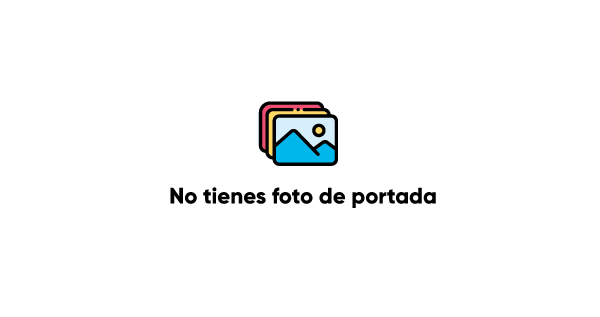
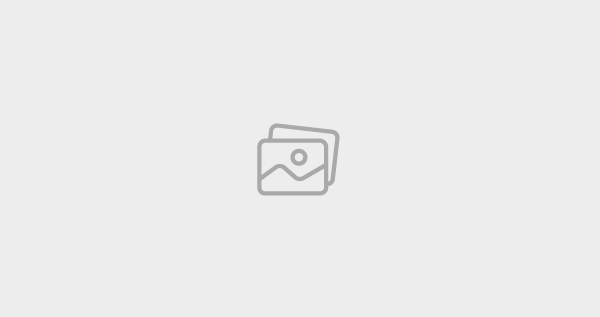
mejorando las imagenes por defecto del formulario de negocio

Changed region(s): [[0.27, 0.3123, 0.75, 0.653]]

diff --git a/lib/src/ui/negocio/user_card_negocio.dart b/lib/src/ui/negocio/user_card_negocio.dart
@@ -13,86 +13,91 @@ class UserCardNegocio extends StatelessWidget {
 
   @override
   Widget build(BuildContext context) {
-    return Padding(
-      padding: const EdgeInsets.all(10),
-      child: Container(
-        width: double.infinity,
-        height: 70,
-        decoration: BoxDecoration(
-          color: Colors.white,
-          borderRadius: BorderRadius.only(
-              topLeft: Radius.circular(5), bottomLeft: Radius.circular(5)),
-          boxShadow: [
-            BoxShadow(
-              color: Colors.grey.withOpacity(0.3),
-              spreadRadius: 1,
-              blurRadius: 7,
-              // offset: Offset(3, 3), // changes position of shadow
-            ),
-          ],
-        ),
-        child: Row(
-          mainAxisAlignment: MainAxisAlignment.spaceBetween,
-          children: [
-            Container(
-              width: 70,
-              height: 70,
+    return Column(
+      children: [
+        Padding(
+          padding: const EdgeInsets.symmetric(horizontal: 10,vertical: 0.5),
+          child: Container(
+            width: double.infinity,
+            height: 70,
+            decoration: BoxDecoration(
               color: Colors.white,
-              child: ClipRRect(
-                child: FadeInImage(
-                  placeholder: AssetImage('assets/img/load-app.gif'),
-                  image: NetworkImage(portadaImage))
-              )
-            ),
-            Expanded(
-              child: Padding(
-                padding: const EdgeInsets.all(10),
-                child: Column(
-                  crossAxisAlignment: CrossAxisAlignment.start,
-                  children: [
-                    Text(
-                      nombre,
-                      style: TextStyle(fontFamily: 'GilroyB', fontSize: 20),
-                    ),
-                    Text(
-                      email,
-                      style: TextStyle(fontFamily: 'GilroyL', fontSize: 10),
-                    ),
-                  ],
+              borderRadius: BorderRadius.only(
+                  topLeft: Radius.circular(5), bottomLeft: Radius.circular(5)),
+              boxShadow: [
+                BoxShadow(
+                  color: Colors.grey.withOpacity(0.3),
+                  spreadRadius: 1,
+                  blurRadius: 7,
+                  // offset: Offset(3, 3), // changes position of shadow
                 ),
-              ),
+              ],
             ),
-            PopupMenuButton(
-                icon: Icon(
-                  Icons.more_vert,
-                  color: Color(0XFFE63946),
+            child: Row(
+              mainAxisAlignment: MainAxisAlignment.spaceBetween,
+              children: [
+                Container(
+                  width: 70,
+                  height: 70,
+                  color: Colors.white,
+                  child: ClipRRect(
+                    child: FadeInImage(
+                      placeholder: AssetImage('assets/img/load-app.gif'),
+                      image: NetworkImage(portadaImage))
+                  )
                 ),
-                itemBuilder: (context) => [
-                      PopupMenuItem(
-                          height: 25,
-                          child: Text(
-                            "Ver",
-                            style:
-                                TextStyle(fontFamily: 'GilroyB', fontSize: 13),
-                          )),
-                      PopupMenuItem(
-                          height: 25,
-                          child: Text(
-                            "Editar",
-                            style:
-                                TextStyle(fontFamily: 'GilroyB', fontSize: 13),
-                          )),
-                      PopupMenuItem(
-                          height: 25,
-                          child: Text(
-                            "Eliminar",
-                            style:
-                                TextStyle(fontFamily: 'GilroyB', fontSize: 13),
-                          )),
-                    ])
-          ],
+                Expanded(
+                  child: Padding(
+                    padding: const EdgeInsets.all(10),
+                    child: Column(
+                      crossAxisAlignment: CrossAxisAlignment.start,
+                      children: [
+                        Text(
+                          nombre,
+                          style: TextStyle(fontFamily: 'GilroyB', fontSize: 20),
+                        ),
+                        Text(
+                          email,
+                          style: TextStyle(fontFamily: 'GilroyL', fontSize: 10),
+                        ),
+                      ],
+                    ),
+                  ),
+                ),
+                PopupMenuButton(
+                    icon: Icon(
+                      Icons.more_vert,
+                      color: Color(0XFFE63946),
+                    ),
+                    itemBuilder: (context) => [
+                          PopupMenuItem(
+                              height: 25,
+                              child: Text(
+                                "Ver",
+                                style:
+                                    TextStyle(fontFamily: 'GilroyB', fontSize: 13),
+                              )),
+                          PopupMenuItem(
+                              height: 25,
+                              child: Text(
+                                "Editar",
+                                style:
+                                    TextStyle(fontFamily: 'GilroyB', fontSize: 13),
+                              )),
+                          PopupMenuItem(
+                              height: 25,
+                              child: Text(
+                                "Eliminar",
+                                style:
+                                    TextStyle(fontFamily: 'GilroyB', fontSize: 13),
+                              )),
+                        ])
+              ],
+            ),
+          ),
         ),
-      ),
+        Divider()
+      ],
     );
   }
 }

diff --git a/lib/src/ui/negocio/crear_perfil_negocio.dart b/lib/src/ui/negocio/crear_perfil_negocio.dart
@@ -77,7 +77,7 @@ class _CrearPerfilNegocioState extends State<CrearPerfilNegocio> {
                             ),
                       Container(
                         padding: EdgeInsets.all(8),
-                        width: 150,
+                        width: 180,
                         height: 50,
                         alignment: Alignment.centerRight,
                         child: RaisedButton(
@@ -85,6 +85,7 @@ class _CrearPerfilNegocioState extends State<CrearPerfilNegocio> {
                           elevation: 0,
                           onPressed: getPortadaImage,
                           child: Row(
+                            mainAxisAlignment: MainAxisAlignment.center,
                             children: [
                               Padding(
                                 padding: const EdgeInsets.only(right: 5),
@@ -94,7 +95,7 @@ class _CrearPerfilNegocioState extends State<CrearPerfilNegocio> {
                                 ),
                               ),
                               Text(
-                                'Subir Foto',
+                                'Subir Portada',
                                 style: TextStyle(
                                     color: Colors.white, fontFamily: 'GilroyB'),
                               ),
@@ -120,30 +121,29 @@ class _CrearPerfilNegocioState extends State<CrearPerfilNegocio> {
                           //borderRadius: BorderRadius.all(Radius.circular(50)),
                         ),
                         child: sampleProfileImage == null
-                            ? Container(
-                                width: 80,
-                                height: 80,
-                                decoration: BoxDecoration(
-                                  shape: BoxShape.circle,
-                                    image: DecorationImage(
-                                        image: AssetImage(
-                                            'assets/img/profile-img.jpg'),
-                                        fit: BoxFit.cover)),
-                              )
-                            : Container(
-                                width: 80,
-                                height: 80,
-                                decoration: BoxDecoration(
-                                  shape: BoxShape.circle,
-                                ) ,
-                                child: ClipRRect(
+                            ?
+                            CircularProfileAvatar(
+                            '',
+                            child: Image(image: AssetImage('assets/img/profile-img.jpg')),
+                            radius: 80,
+                            borderColor: Colors.white,
+                            borderWidth: 4,
+                          )
+                          :
+                            CircularProfileAvatar(
+                            '',
+                            child: ClipRRect(
                                   borderRadius: BorderRadius.circular(50),
                                   child: Image.file(
                                   sampleProfileImage,
                                   fit: BoxFit.cover, 
                                 ),
-                                )
-                              ),
+                                ),
+                            radius: 80,
+                            borderColor: Colors.white,
+                            borderWidth: 3,
+                          )
+
                       ),
                     ),
                   ),
@@ -151,12 +151,13 @@ class _CrearPerfilNegocioState extends State<CrearPerfilNegocio> {
                     height: 10,
                   ),
                   Container(
-                    width: 180,
+                    width: 140,
                     child: RaisedButton(
                             color: Color(0xFFE63946),
                             elevation: 0,
                             onPressed: getProfileImage,
                             child: Row(
+                              mainAxisAlignment: MainAxisAlignment.center,
                               children: [
                                 Padding(
                                   padding: const EdgeInsets.only(right: 5),
@@ -166,7 +167,7 @@ class _CrearPerfilNegocioState extends State<CrearPerfilNegocio> {
                                   ),
                                 ),
                                 Text(
-                                  'Subir Foto Perfil',
+                                  'Subir Perfil',
                                   style: TextStyle(
                                       color: Colors.white, fontFamily: 'GilroyB'),
                                 ),
